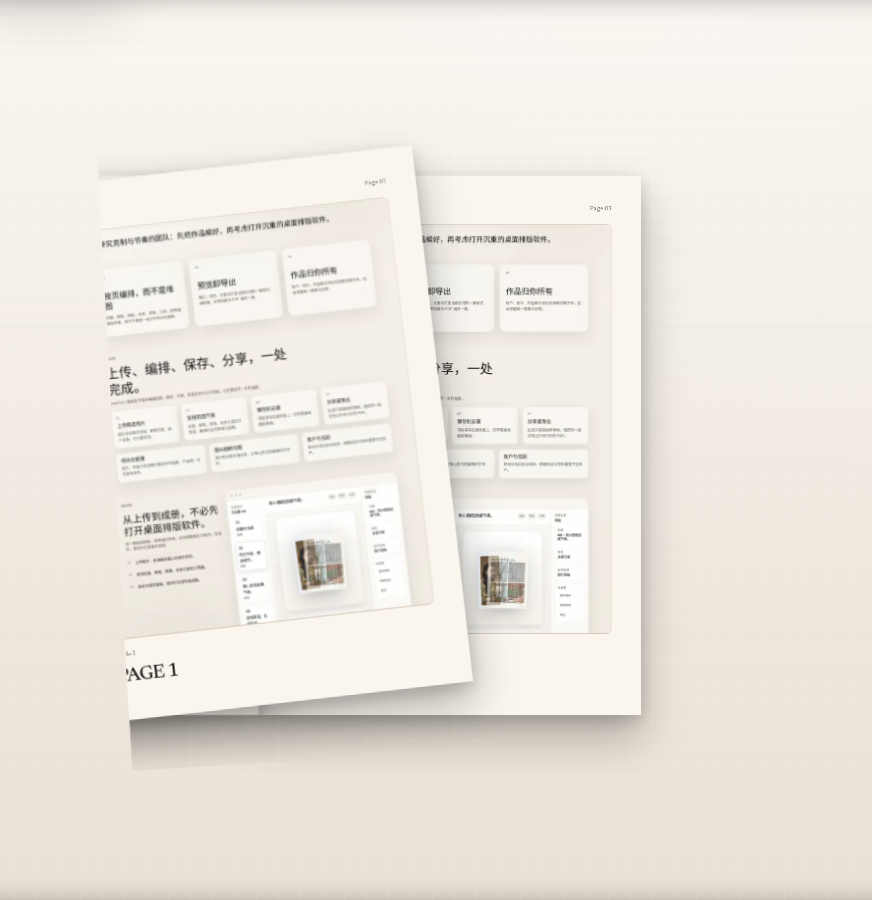
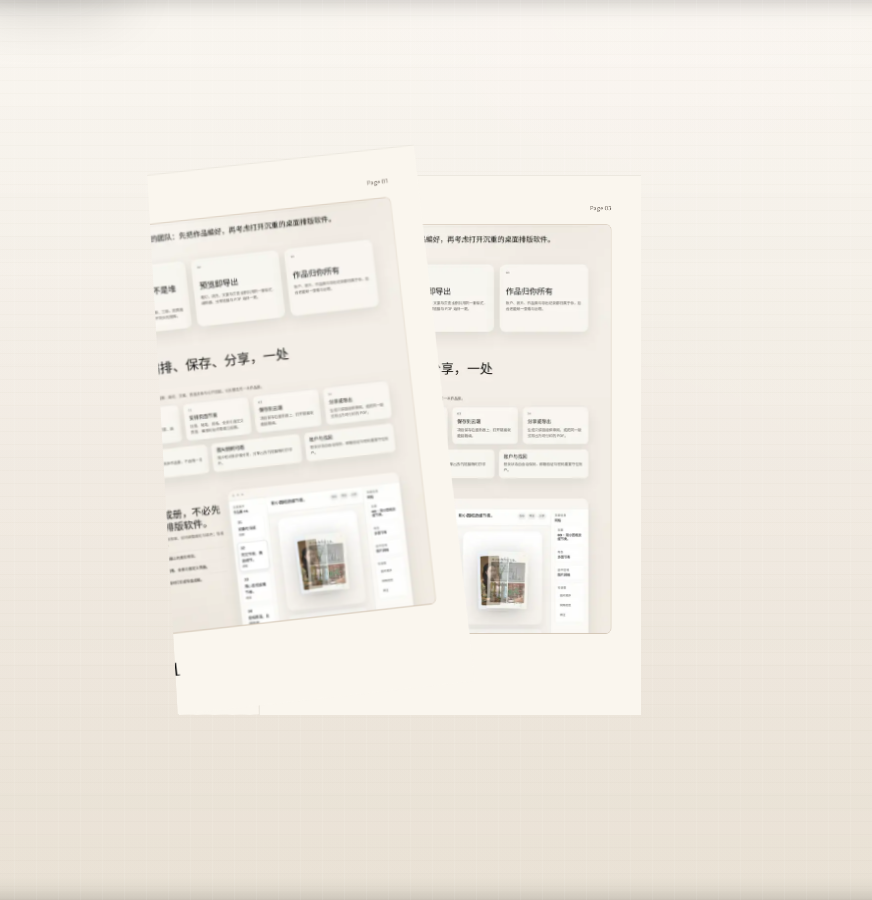
Revert the clipping change and put the page shadow on .clip
The previous attempt opened .inner-page and the boundary page, which broke the
turn animation. Restore the 5e7591f clipping behaviour. The page shadow now
lives on .clip, which turn.js transforms; .clip keeps overflow hidden so its own
shadow is not clipped and content stays clipped. Only .page-wrapper is opened so
the shadow can leave the wrapper. .inner-page and the boundary page are untouched,
so the turn animation is unchanged.

The shadow is a static box-shadow with no filter, so it does not flicker and
images are not re-rasterized.

diff --git a/src/styles.css b/src/styles.css
@@ -5024,23 +5024,6 @@ button.asset-frame {
 
 
 
-.issue-viewer__turnjs .page-wrapper {
-  overflow: visible !important;
-}
-
-.issue-viewer__turnjs .clip {
-  overflow: clip !important;
-  overflow-clip-margin: 48px;
-}
-
-/* Each page's own shadow lives on the transformed inner sheet. It is a static
-   box-shadow, so it does not flicker and does not force image re-rasterization. */
-.issue-viewer__turnjs .inner-page {
-  box-shadow:
-    0 22px 40px rgba(17, 17, 17, 0.28),
-    0 6px 14px rgba(17, 17, 17, 0.16);
-}
-
 .issue-viewer__turnjs .even .gradient,
 .issue-viewer__turnjs .odd .gradient,
 .issue-viewer__turnjs .inner-gradient,
@@ -5087,14 +5070,14 @@ button.asset-frame {
 
 .issue-turnjs__sheet-scale .magazine-page {
   box-shadow:
-    0 7px 12px rgba(17, 17, 17, 0.008),
-    0 2px 4px rgba(17, 17, 17, 0.004);
+    0 12px 22px rgba(17, 17, 17, 0.16),
+    0 3px 7px rgba(17, 17, 17, 0.08);
 }
 
 .issue-turnjs__page--boundary .issue-turnjs__sheet-scale .magazine-page {
   box-shadow:
-    0 8px 14px rgba(17, 17, 17, 0.011),
-    0 2px 5px rgba(17, 17, 17, 0.005);
+    0 10px 18px rgba(17, 17, 17, 0.14),
+    0 2px 6px rgba(17, 17, 17, 0.07);
 }
 
 .issue-viewer__boundary-turn {

diff --git a/tests/e2e/reader-turn.spec.ts b/tests/e2e/reader-turn.spec.ts
@@ -135,7 +135,7 @@ async function pageShadowState(page: Page): Promise<PageShadowState | null> {
       globalAfterShadow: getComputedStyle(book, '::after').boxShadow,
       wrapperFilters: wrappers.map((wrapper) => getComputedStyle(wrapper).filter),
       visiblePageShadows: visible.map(
-        (wrapper) => getComputedStyle(wrapper.querySelector('.inner-page') ?? wrapper).boxShadow,
+        (wrapper) => getComputedStyle(wrapper.querySelector('.magazine-page') ?? wrapper).boxShadow,
       ),
       imageAncestorFilters,
     };
@@ -233,7 +233,7 @@ test('hovering a corner and pressing a page do not change the page shadow', asyn
         if (wrapper.getBoundingClientRect().width <= 10) return;
         const page = wrapper.querySelector('.page');
         const key = page?.className.match(/\bp\d+\b/)?.[0] ?? Math.random().toString();
-        map.set(key, getComputedStyle(wrapper.querySelector('.inner-page') ?? wrapper).boxShadow);
+        map.set(key, getComputedStyle(wrapper.querySelector('.magazine-page') ?? wrapper).boxShadow);
       });
       return Array.from(map.entries());
     });

diff --git a/docs/issue-register.md b/docs/issue-register.md
@@ -163,7 +163,7 @@
 | T7 | 图库磁贴悬停时边框变白，照片像被裁掉 | hover 规则用了白色边框 + 浮起阴影 | 已修复：悬停只把边框加深到 30% 墨色，不浮起、不变白 |
 | T8 | 图片未加载时显示纯白块，像是坏了 | 没有加载/失败状态 | 已修复：共用 `PhotoThumb`，加载中显示“加载中…”，失败显示“图片无法显示”；证据 `docs/evidence/2026-11-21-gallery-loading.png` |
 | T9 | 点击 UnAlbum 图片只显示“导入中”，随后没有反应，实际无法使用 | 导入路由还引用了已删除的 `binding` 变量，接口 500 | 已修复：使用 `getPhotoForUser` 返回的 binding；`validate:mvp` 新增真实导入 + 去重 + 缩略图代理用例 |
-| T20 | 全局背景阴影闪烁/消失/提前出现；页面阴影在按压、拖动、悬停角时闪烁；翻页中图片闪烁；阴影被 turn.js 裁剪链裁掉；放开裁剪又破坏翻页动画 | 背景阴影绑定掀起时序；页面阴影用 `filter` 强制重栅格化；`.inner-page`/`.clip` 裁剪隐藏阴影 | 已移除全局背景阴影；阴影改在 `.inner-page` 的 `box-shadow`，只放开 `.page-wrapper` 与 `.clip` 的 48px clip margin，保留 `.inner-page`/边界页裁剪，动画不受影响；无 filter 祖先，图片不闪烁。测试 reader 6/6 |
+| T20 | 全局背景阴影闪烁/消失/提前出现；页面阴影闪烁；图片闪烁；阴影被裁剪链裁掉；放开 `.inner-page`/边界页裁剪又破坏翻页动画 | 背景阴影绑定掀起时序；页面阴影用 `filter` 强制重栅格化；`.inner-page`/`.clip` 裁剪隐藏阴影 | 已移除全局背景阴影；阴影改在 `.clip` 的 `box-shadow`（`.clip` 保持 `overflow: hidden`，自身阴影不被裁），仅放开 `.page-wrapper`；`.inner-page`/边界页裁剪不动，动画正常；无 filter 祖先，图片不闪烁。测试 reader 6/6 |
 | T19 | 从封面翻开时左侧出现第二页内容；turn.js 单面页面把封面正面留在左边、把目标页画在翻页背面 | 阅读器把每一页当作单面 DOM，turn.js 的 sheet 效果没有独立背面 | **未修复，需页面模型改造**：正确方案是把奇数页/偶数页配成一张纸，正反两面分别渲染并做背面隐藏；试过的 CSS 镜像/隐藏背面会产生空白或扭曲，已回退。需要确认翻页配对规则后再改（见报告 2026-11-22） |
 | T18 | 分享页未翻页时杂志没有任何背景阴影或轮廓，像浮在空白上的白纸；已有的阴影 CSS 从未被任何代码激活 | 阴影状态类无人设置，turn.js 自带 `.shadow` 又被强制隐藏 | 已修复：在书本体上增加非旋转接触阴影（左右两半，`::before`/`::after`），按 cover/spread/last 三种静止形态只覆盖真实纸张，翻页期间按仍在桌面上的纸张逐半保留/移除；1px 纸边 + 两层柔和投影，ready 后才淡入。实测 cover/spread/翻页中/落页/折角/拖拽折角/移动端/全屏 8 种状态；证据 `docs/evidence/2026-11-22-reader-*.png`；新增 e2e 断言三种静止形态的阴影几何 |
 | T14 | 公开分享页拖拽翻页后，页面一直粘在鼠标上，松开左键或单击都不释放 | 内置 turn.js 在全局 mouseup 中对 `document` 调用 `offset()`、对没有事件数据的元素取 `dispatch`，抛错后没有清理拖拽状态；peel 释放时又访问了不存在的 `dpoint` | 已修复：对 vendor 里三处做防御（document offset、缺失 events、缺失 dpoint），并把版本号提升到 `20261121e`；新增 e2e 拖拽-释放-移动断言，连续 8 次通过 |

diff --git a/docs/remediation-report-2026-11-22.md b/docs/remediation-report-2026-11-22.md
@@ -19,12 +19,9 @@ static CSS, so it cannot flicker, disappear, or appear early.
 - Removed the two half-layers (`.issue-viewer__turnjs::before/::after`) and all
   code that toggled them (`shadowLeft`/`shadowRight`, `data-lift-side`, the
   per-frame lift loop, pointer-drag tracking).
-- `.inner-page` has a `box-shadow`. Turn.js transforms it, so the shadow follows
-  the moving page. There is no `filter` on the wrapper or on any image ancestor.
-- `.page-wrapper` is `overflow: visible` and `.clip` is `overflow: clip` with a
-  48px clip margin, so the shadow can extend outside the sheet while the page
-  content is still clipped. `.inner-page` and the boundary page keep their
-  original clipping so the turn animation is unchanged.
+- `.issue-turnjs__sheet-scale .magazine-page` has a `box-shadow`. Turn.js
+  transforms the sheet, so the shadow follows the moving page. There is no
+  `filter` on the wrapper or on any image ancestor.
 - Turn.js `gradients` is off and its `inner-gradient`/`outer-gradient` layers are
   hidden, so there is no direction-dependent spine band.
 - The page's own `.magazine-page` box-shadow remains as a subtle surface edge.
@@ -57,9 +54,9 @@ static CSS, so it cannot flicker, disappear, or appear early.
 | Fullscreen | `2026-11-22-reader-fullscreen.png` |
 
 **Regression guard:** `tests/e2e/reader-turn.spec.ts` asserts that visible pages
-carry a visible `box-shadow` on `.inner-page` in every state (cover, spread, last page, mid-turn,
-press, mobile, auto-slide), that no page wrapper or image ancestor has a `filter`,
-and that the book has no `::before`/`::after` background layer. A dedicated test
+carry a `box-shadow` in every state (cover, spread, last page, mid-turn, press,
+mobile, auto-slide), that no page wrapper or image ancestor has a `filter`, and
+that the book has no `::before`/`::after` background layer. A dedicated test
 hovers all four corners and presses the page, asserting the per-page shadow value
 does not change.
 

diff --git a/docs/devlog.md b/docs/devlog.md
@@ -1914,14 +1914,12 @@
   at full strength while a page was in the air, and that turn.js's fold gradients
   were the direction-dependent spine shading. Turn.js's `.shadow` element paints
   nothing and was ruled out.
-- The global background shadow is gone. Every page's `.inner-page` carries its own
+- The global background shadow is gone. Every page surface carries its own
   `box-shadow`, so a page has a shadow whether closed, open, turning, or flat,
-  and it follows the sheet through the air. `.page-wrapper` is overflow visible
-  and `.clip` keeps a 48px clip margin so the shadow shows while content stays
-  clipped; `.inner-page` and the boundary page keep their original clipping so
-  the turn animation is unchanged. No `filter` is used on the wrapper or on image
-  ancestors, so page content is not re-rasterized during the turn and images do
-  not flicker.
+  and it follows the sheet through the air. No `filter` is used on the wrapper or
+  on image ancestors, so page content is not re-rasterized during the turn and
+  images do not flicker. With no global layer there is nothing to vanish on a
+  drag or reappear before a cancelled page settles.
 - Turn.js gradients are disabled and their layers hidden, so the spine has the same
   (no) shading in both directions.
 - The moving sheet keeps its own shadow: the per-frame pass marks page wrappers
